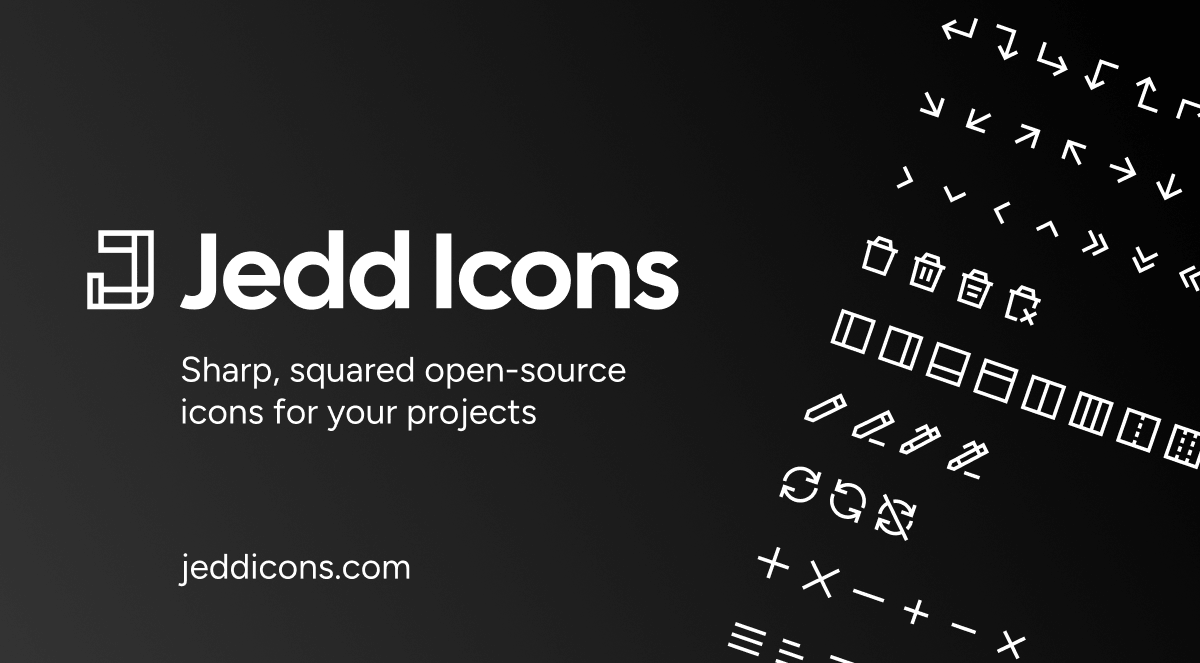
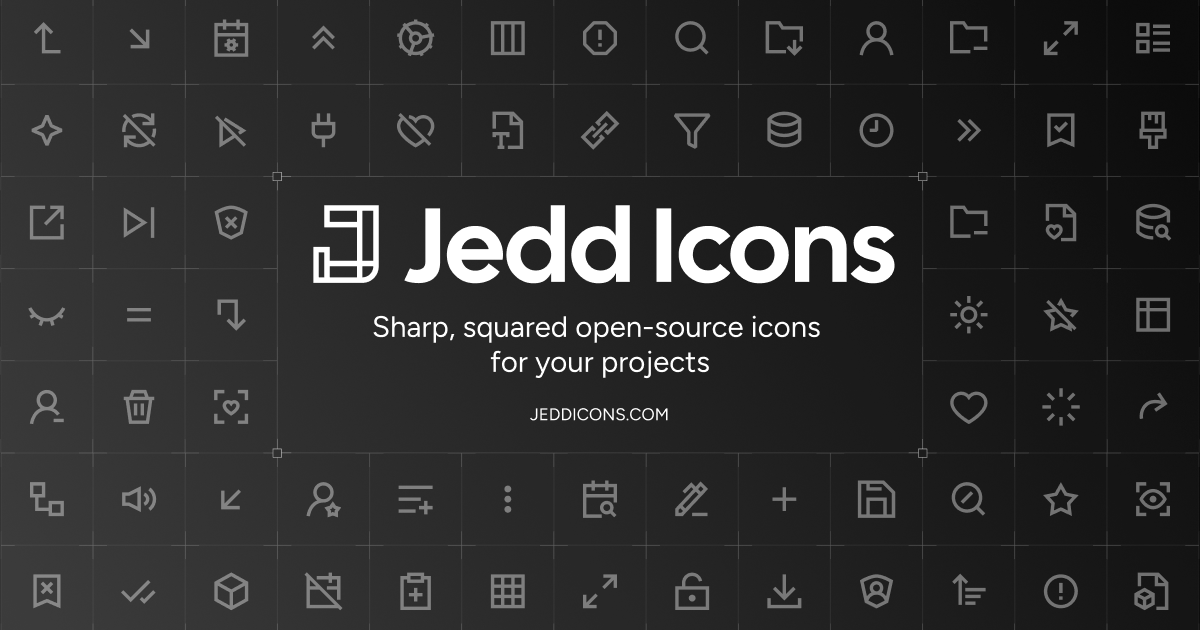
modify og image (#149)

diff --git a/README.md b/README.md
@@ -1,9 +1,6 @@
 <p align="center">
-  <a href="https://jeddicons.com/#gh-light-mode-only">
-    <img src="https://jeddicons.com/logo/jedd-icons-wordmark-light.svg#gh-light-mode-only" alt="Jedd Icons — sharp, squared, open-source SVG icons for React and vanilla JS." width="360">
-  </a>
-  <a href="https://jeddicons.com/#gh-dark-mode-only">
-    <img src="https://jeddicons.com/logo/jedd-icons-wordmark-dark.svg#gh-dark-mode-only" alt="Jedd Icons — sharp, squared, open-source SVG icons for React and vanilla JS." width="360">
+  <a href="https://jeddicons.com/">
+    <img src="apps/www-docs/public/og.png" alt="Jedd Icons — sharp, squared, open-source SVG icons for React and vanilla JS." width="100%">
   </a>
 </p>
 <p align="center">
